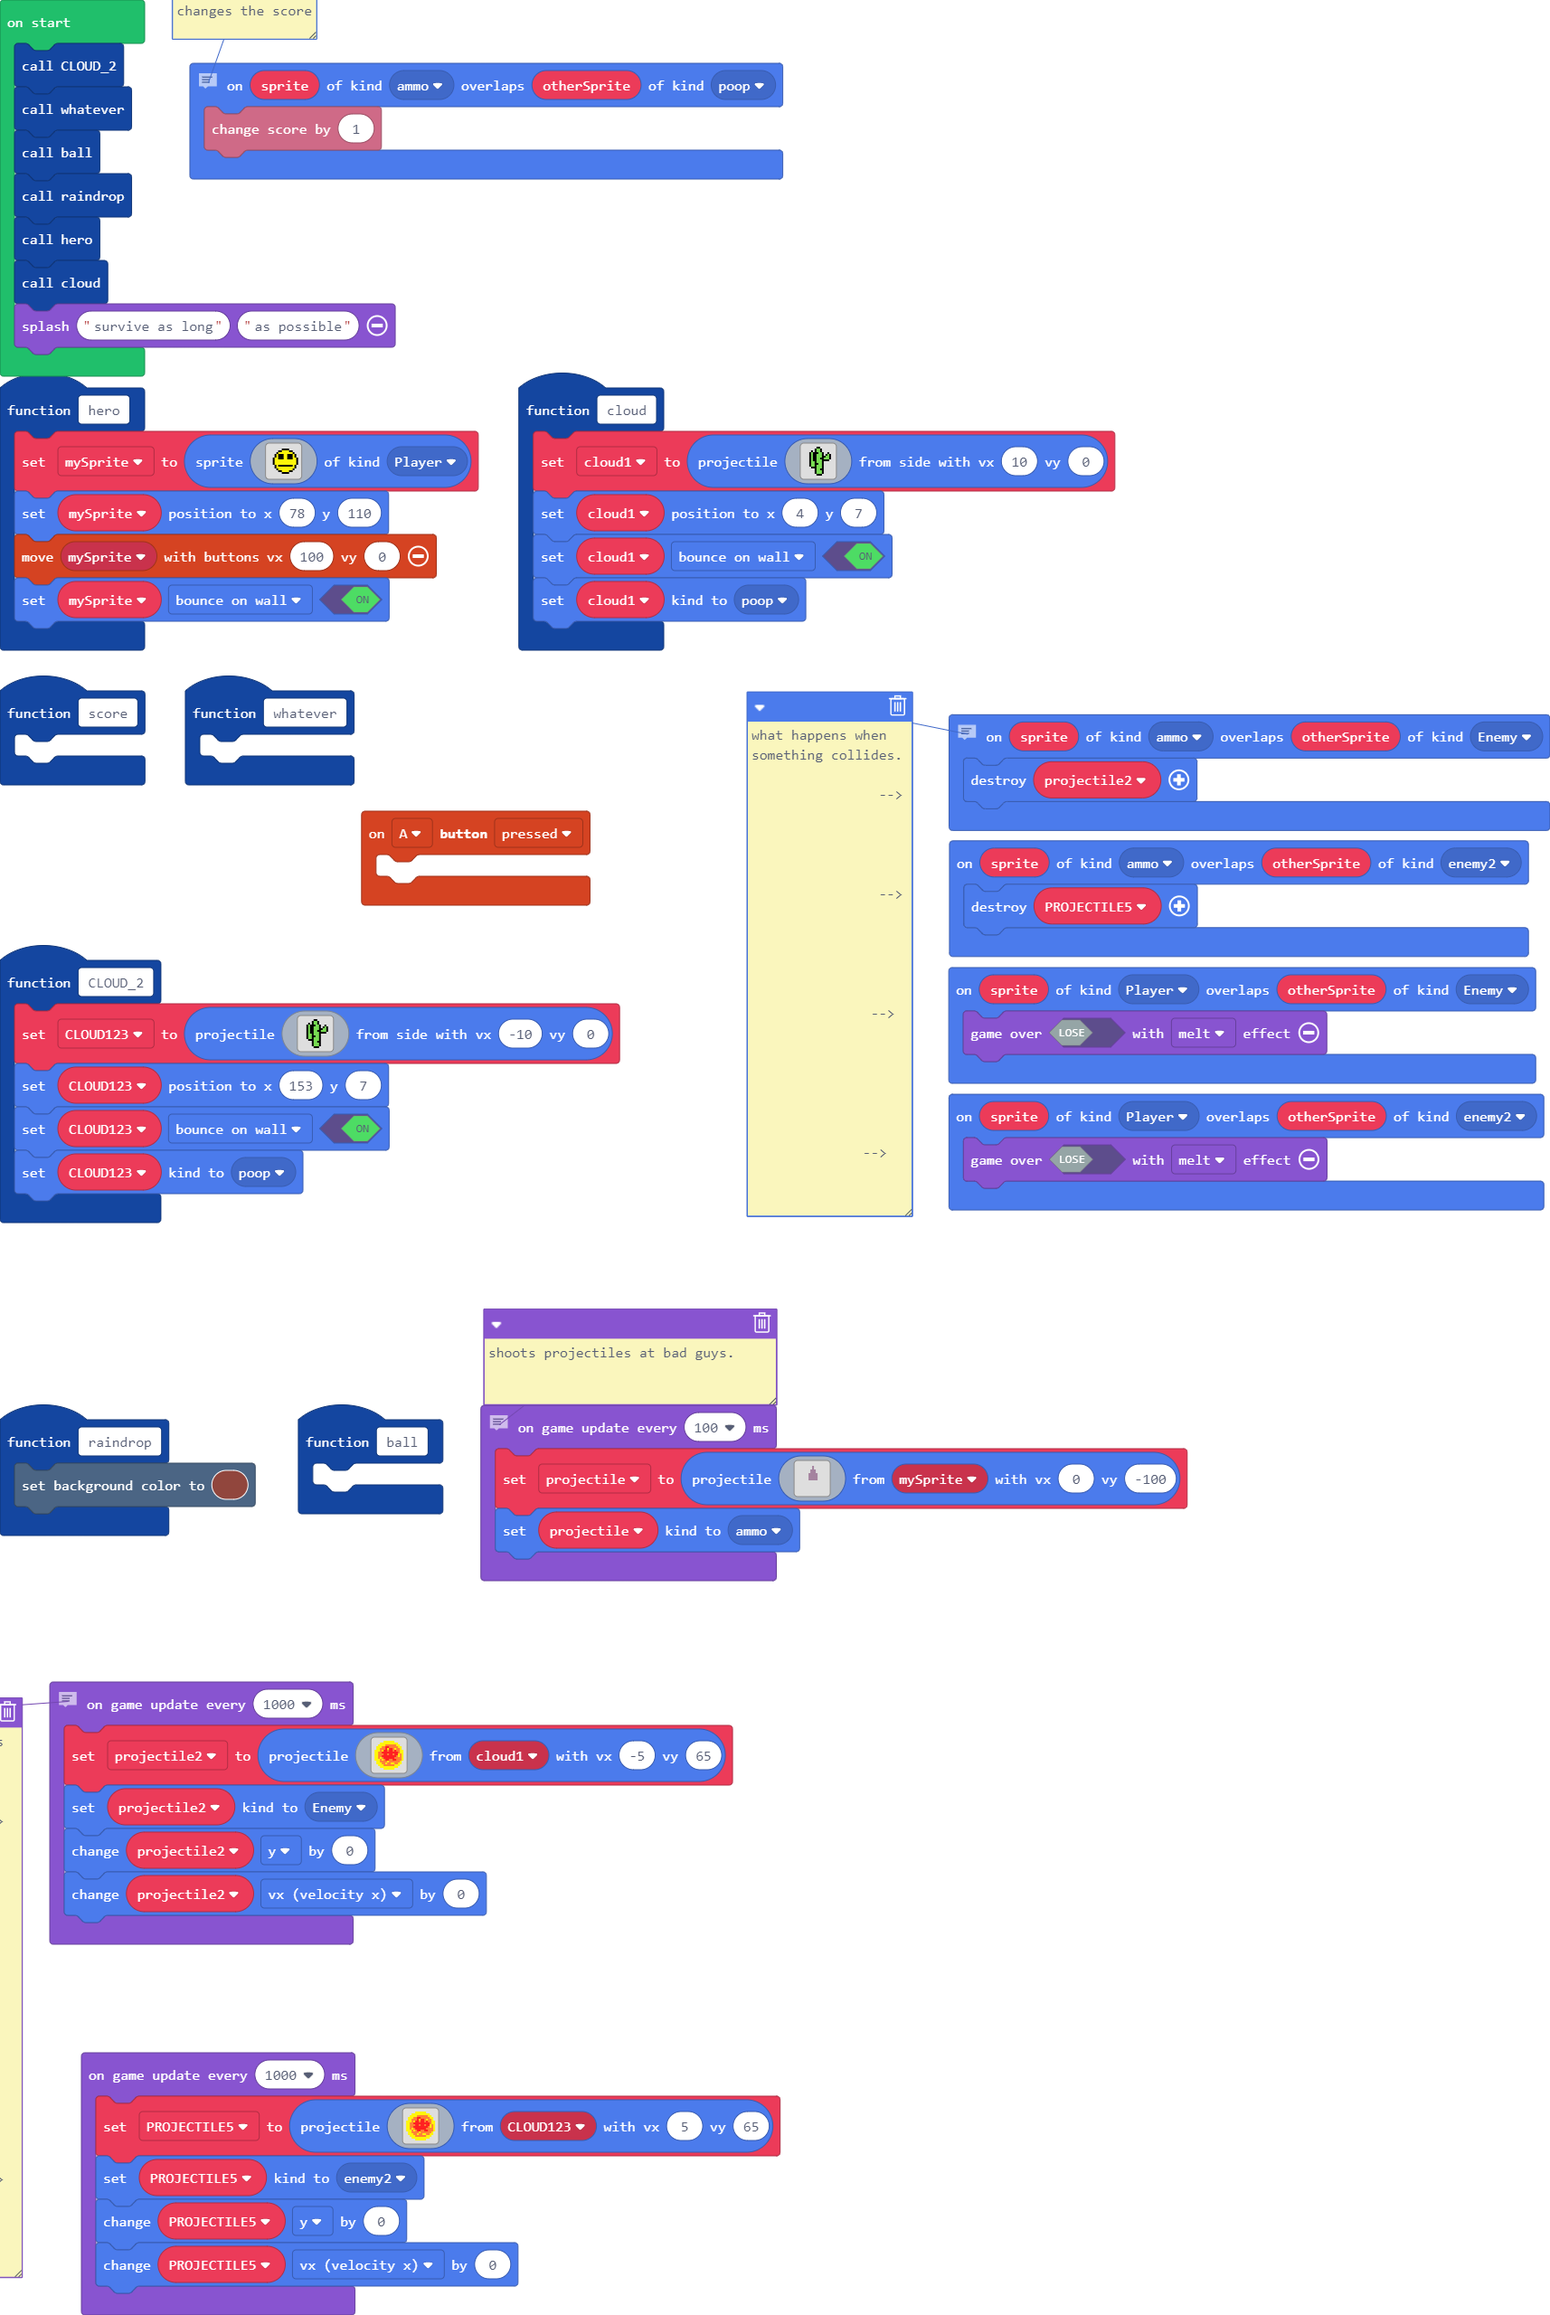
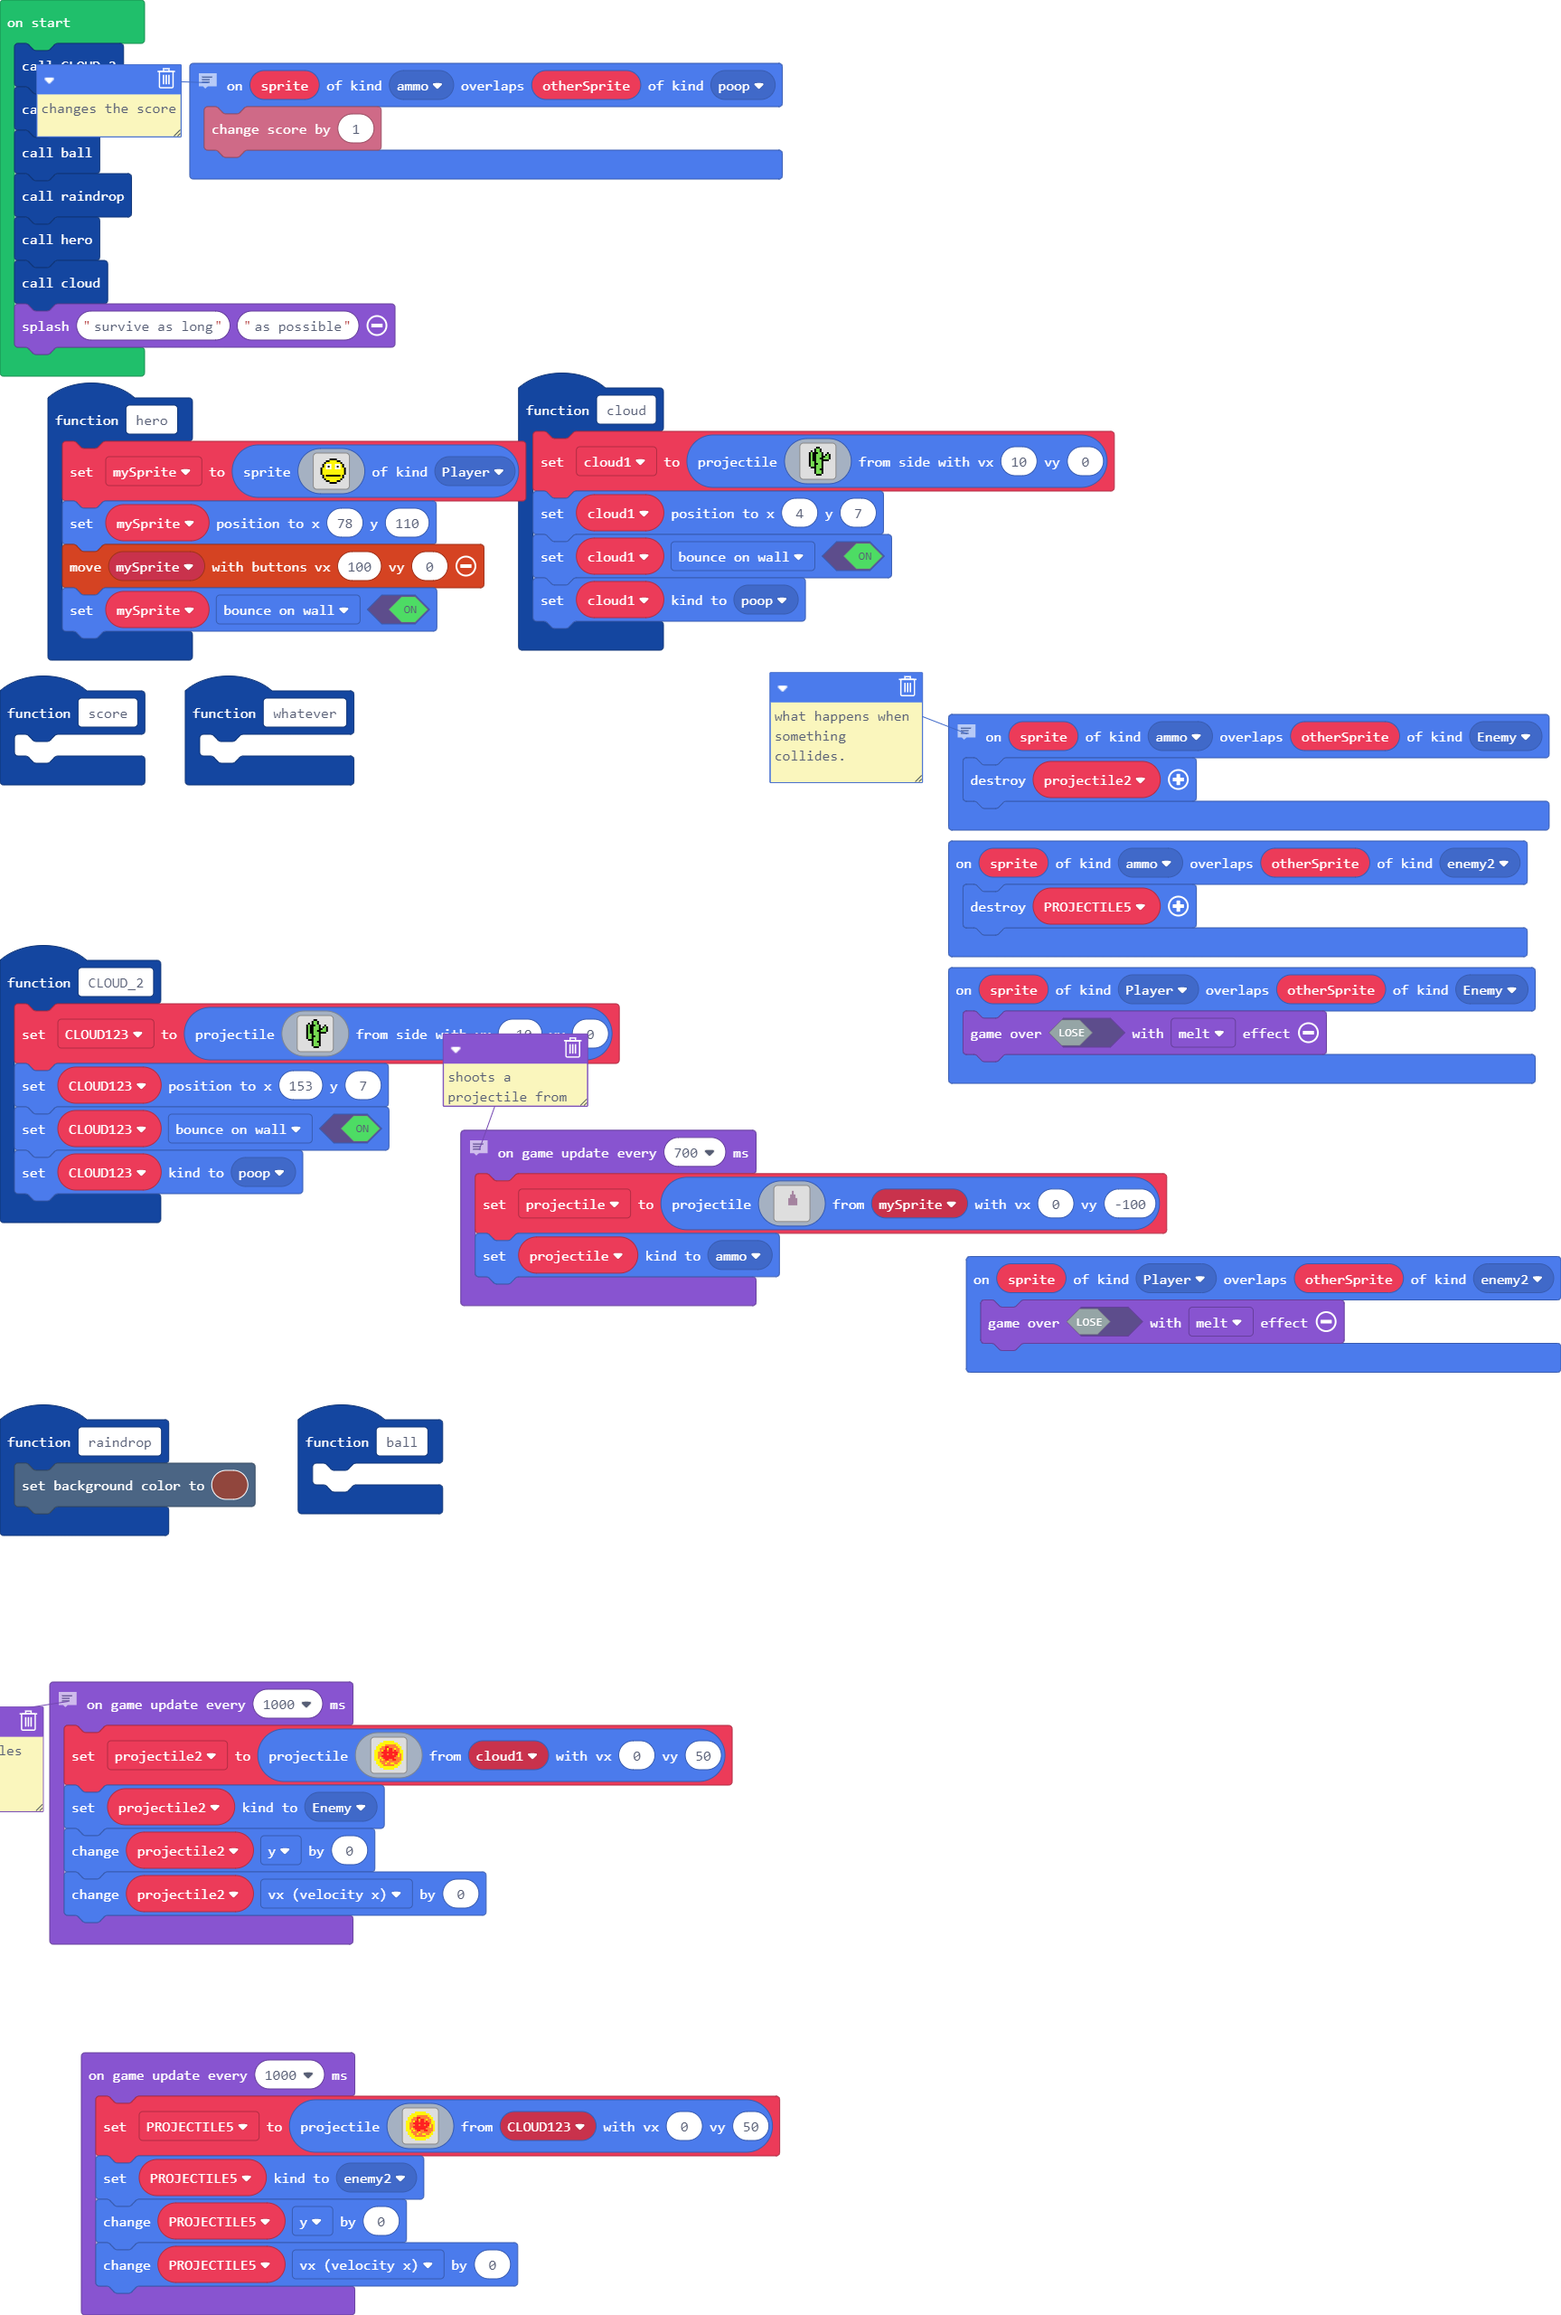
Update main.blocks, main.ts

diff --git a/main.ts b/main.ts
@@ -74,9 +74,9 @@ function hero () {
 . . . . . . . f f f f . . . . . 
 . . . . . f f 5 5 5 5 f f . . . 
 . . . . f 5 5 5 5 5 5 5 5 f . . 
-. . . f 5 f f f 5 5 f f f 5 f . 
-. . . f 5 f f f 5 5 f f f 5 f . 
-. . f 5 5 f f f 5 5 f f f 5 5 f 
+. . . f 5 1 1 1 5 5 1 1 1 5 f . 
+. . . f 5 1 f 1 5 5 1 f 1 5 f . 
+. . f 5 5 1 1 1 5 5 1 1 1 5 5 f 
 . . f 5 5 5 5 5 5 5 5 5 5 5 5 f 
 . . f 5 5 5 5 5 5 5 5 5 5 5 5 f 
 . . f 5 5 5 5 5 5 5 5 5 5 5 5 f 
@@ -123,7 +123,8 @@ function whatever () {
 // what happens when something collides.
 //
 //
-// --> 
+// -->
+//
 //
 //
 //
@@ -150,9 +151,6 @@ sprites.onOverlap(SpriteKind.ammo, SpriteKind.Enemy, function (sprite, otherSpri
 })
 sprites.onOverlap(SpriteKind.Player, SpriteKind.enemy2, function (sprite, otherSprite) {
     game.over(false, effects.melt)
-})
-controller.A.onEvent(ControllerButtonEvent.Pressed, function () {
-	
 })
 sprites.onOverlap(SpriteKind.Player, SpriteKind.Enemy, function (sprite, otherSprite) {
     game.over(false, effects.melt)
@@ -202,8 +200,8 @@ raindrop()
 hero()
 cloud()
 game.splash("survive as long", "as possible")
-// shoots projectiles at bad guys.
-game.onUpdateInterval(100, function () {
+// shoots a projectile from the sprite
+game.onUpdateInterval(700, function () {
     projectile = sprites.createProjectileFromSprite(img`
 . . . . . . . . . . . . . . . . 
 . . . . . . . . b . . . . . . . 
@@ -266,7 +264,7 @@ game.onUpdateInterval(1000, function () {
 . . 5 5 5 4 4 4 4 4 4 5 5 5 . . 
 . . . 5 5 5 5 5 5 5 5 5 5 . . . 
 . . . . . 5 5 5 5 5 5 . . . . . 
-`, cloud1, -5, 65)
+`, cloud1, 0, 50)
     projectile2.setKind(SpriteKind.Enemy)
     projectile2.y += 0
     projectile2.vx += 0
@@ -289,7 +287,7 @@ game.onUpdateInterval(1000, function () {
 . . 5 5 5 4 4 4 4 4 4 5 5 5 . . 
 . . . 5 5 5 5 5 5 5 5 5 5 . . . 
 . . . . . 5 5 5 5 5 5 . . . . . 
-`, CLOUD123, 5, 65)
+`, CLOUD123, 0, 50)
     PROJECTILE5.setKind(SpriteKind.enemy2)
     PROJECTILE5.y += 0
     PROJECTILE5.vx += 0
